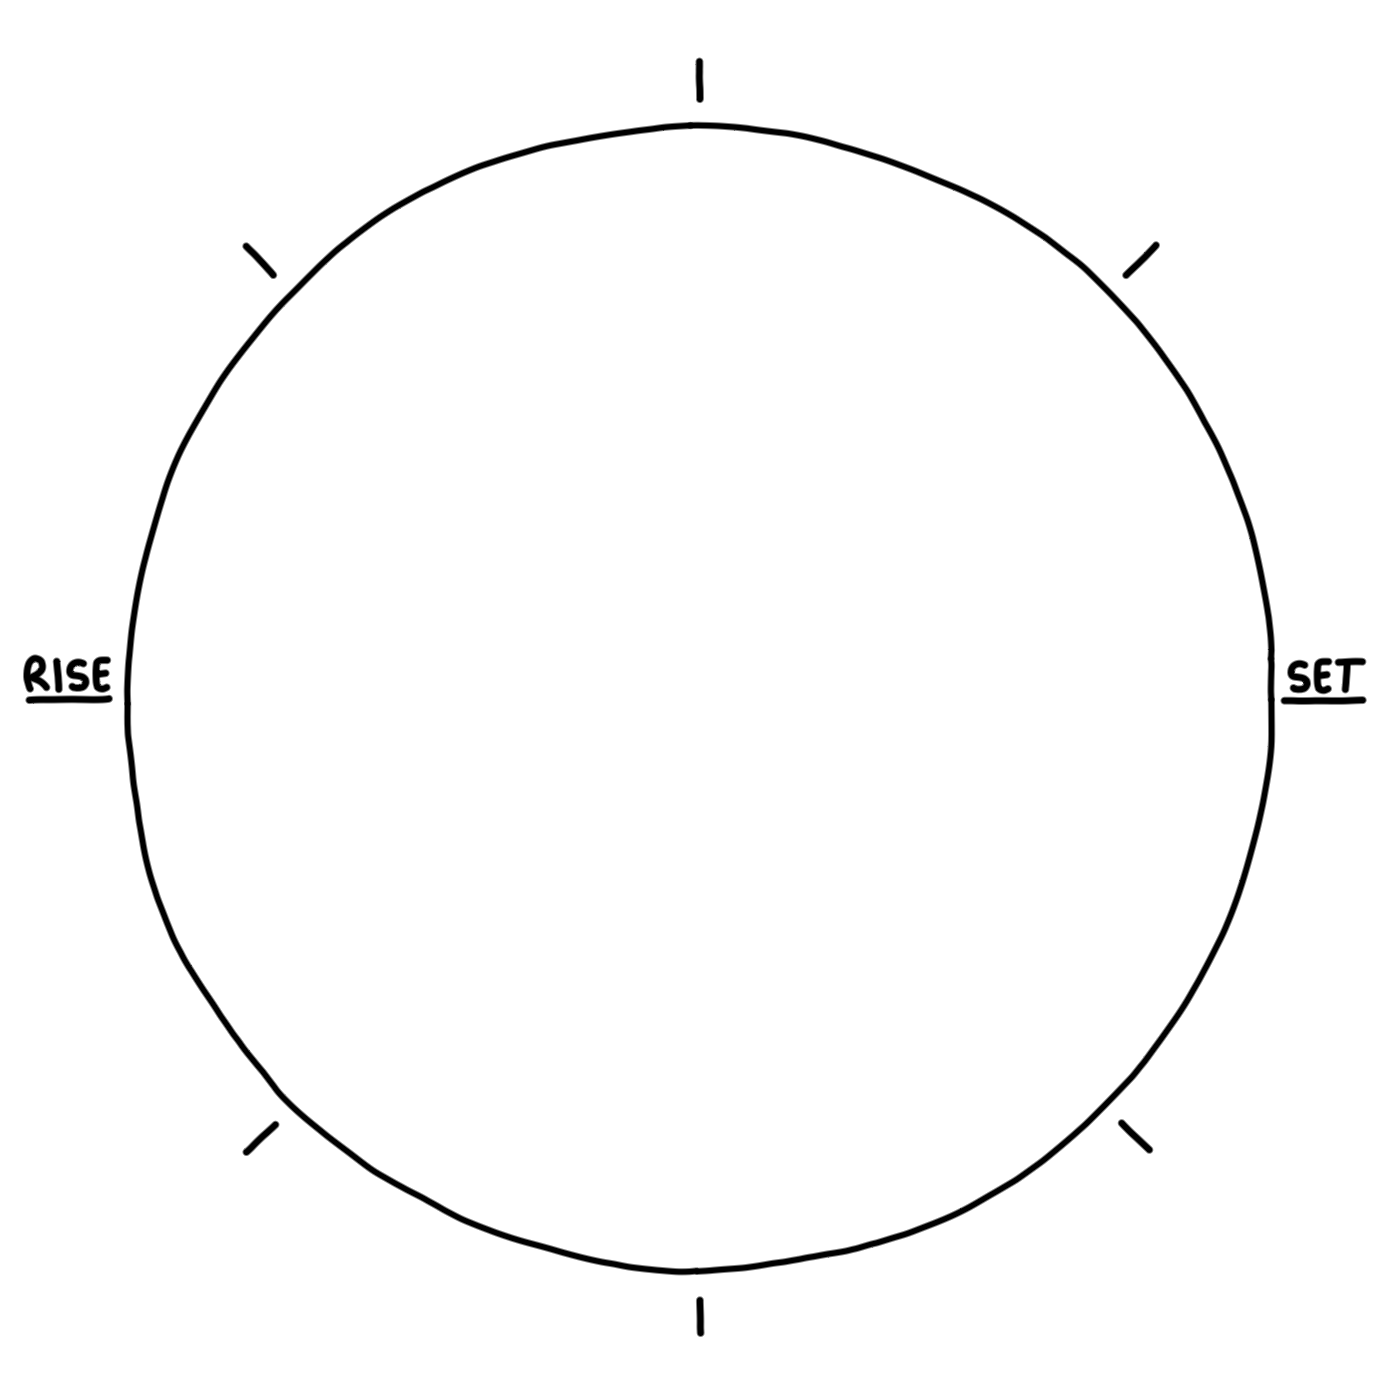
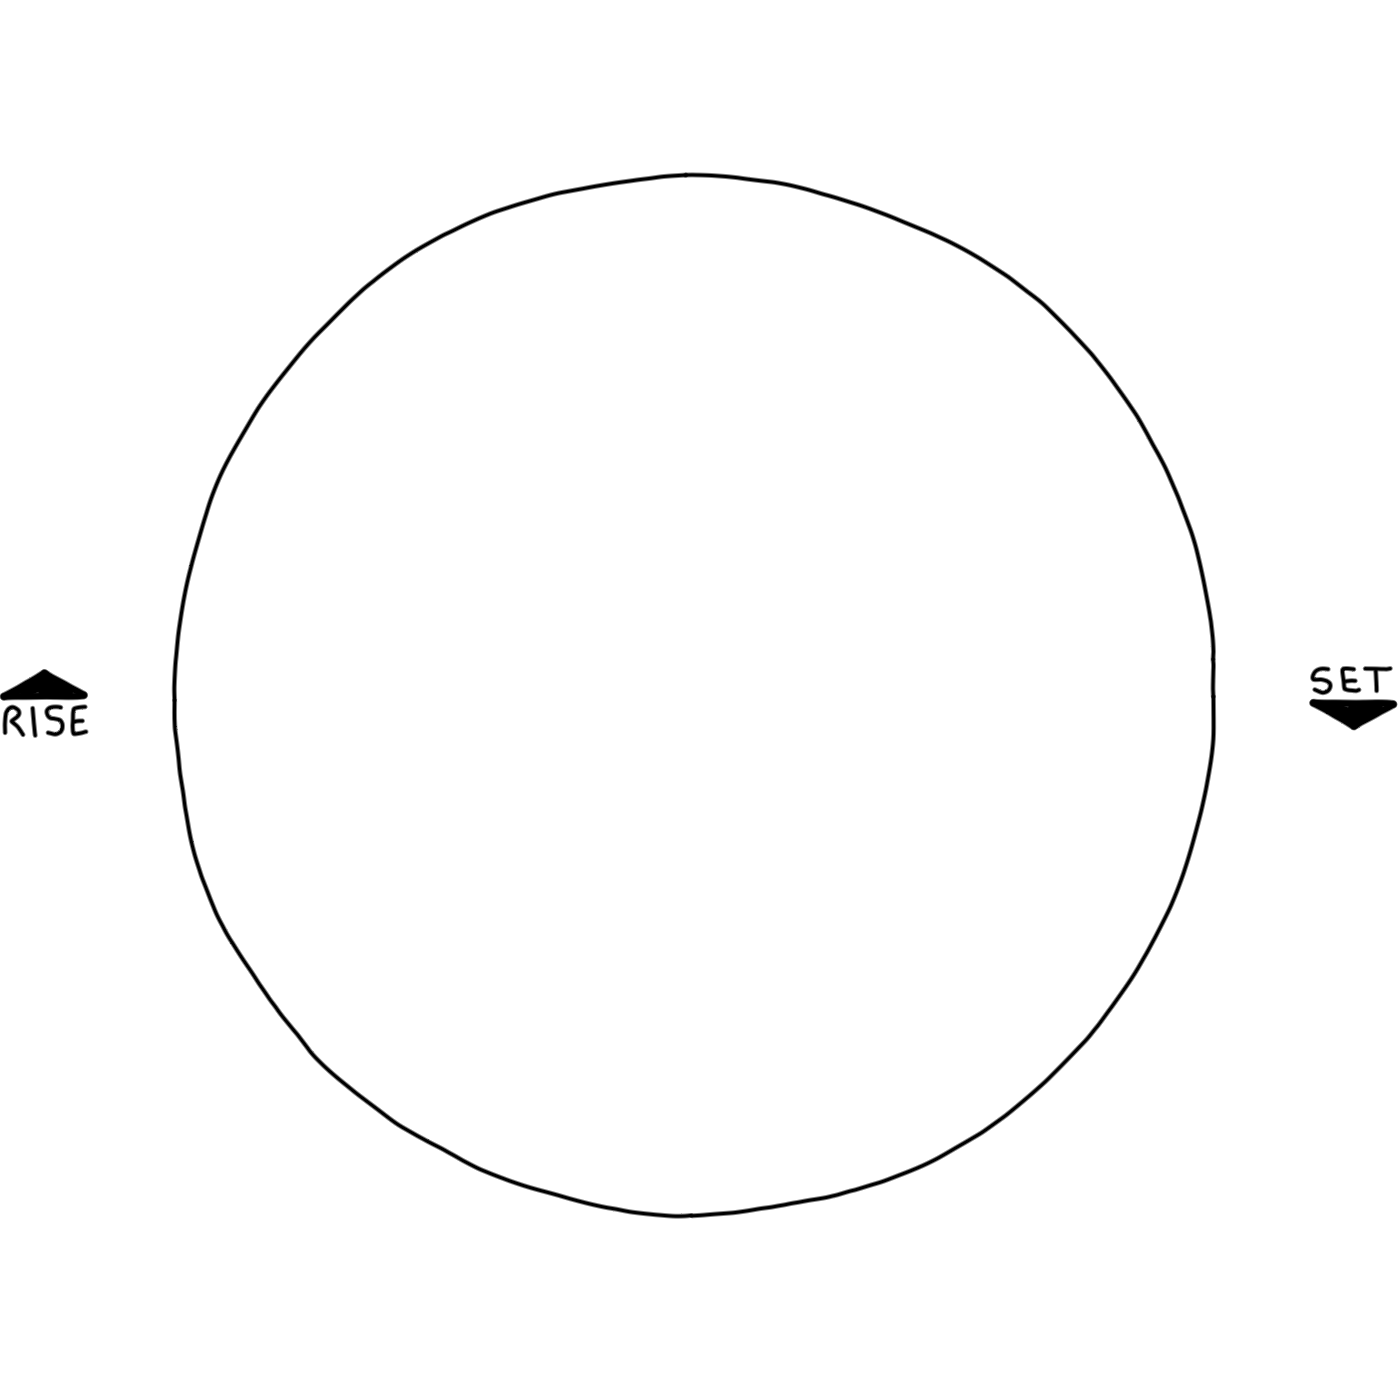
simplify clock2

diff --git a/_layouts/clock2.html b/_layouts/clock2.html
@@ -40,11 +40,11 @@ body {
 }
 #sun {
   left: 160px;
-  height: 180px;
+  height: 168px;
 }
 #moon {
   left: 160px;
-  height: 165px;
+  height: 153px;
 }
 #sun:before {
 	background: transparent;
@@ -391,7 +391,7 @@ body {
 
 		var moon_height = 165+((sunriseAzimuth-moonriseAzimuth)/5);
 		$('#now_moon_relative_altitude').html(165-moon_height);
-		$('#moon_height').html("<style>#moon{height: "+moon_height.toString()+"px; !important;}</style>");
+		//$('#moon_height').html("<style>#moon{height: "+moon_height.toString()+"px; !important;}</style>");
 
 
 		var moonSet;
